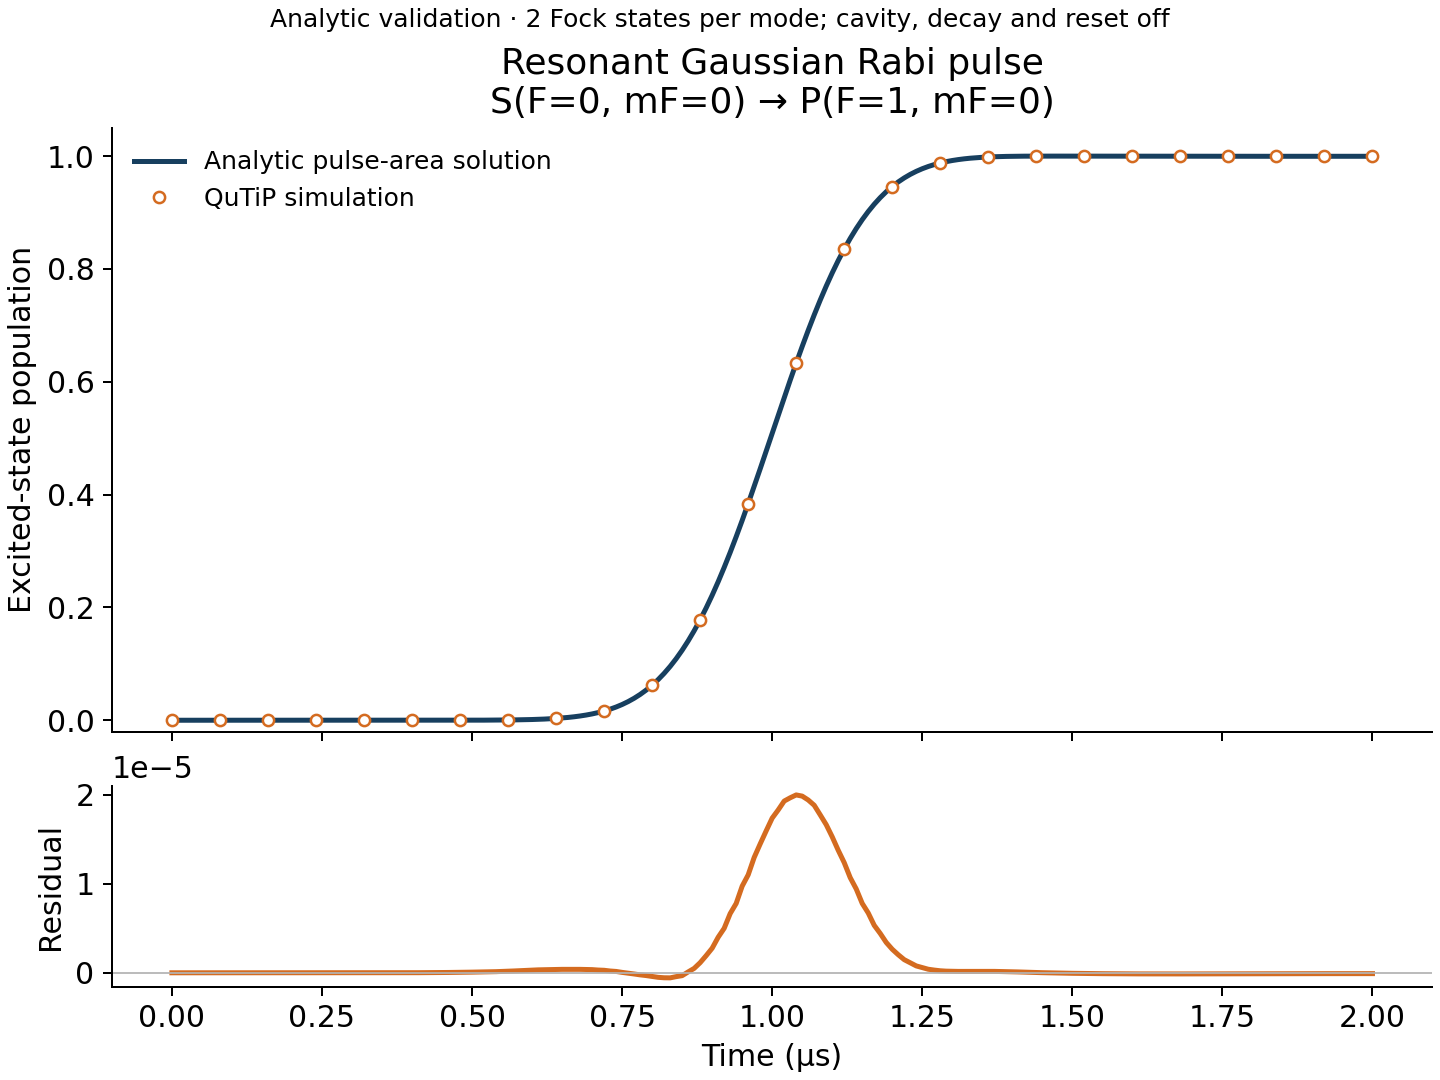
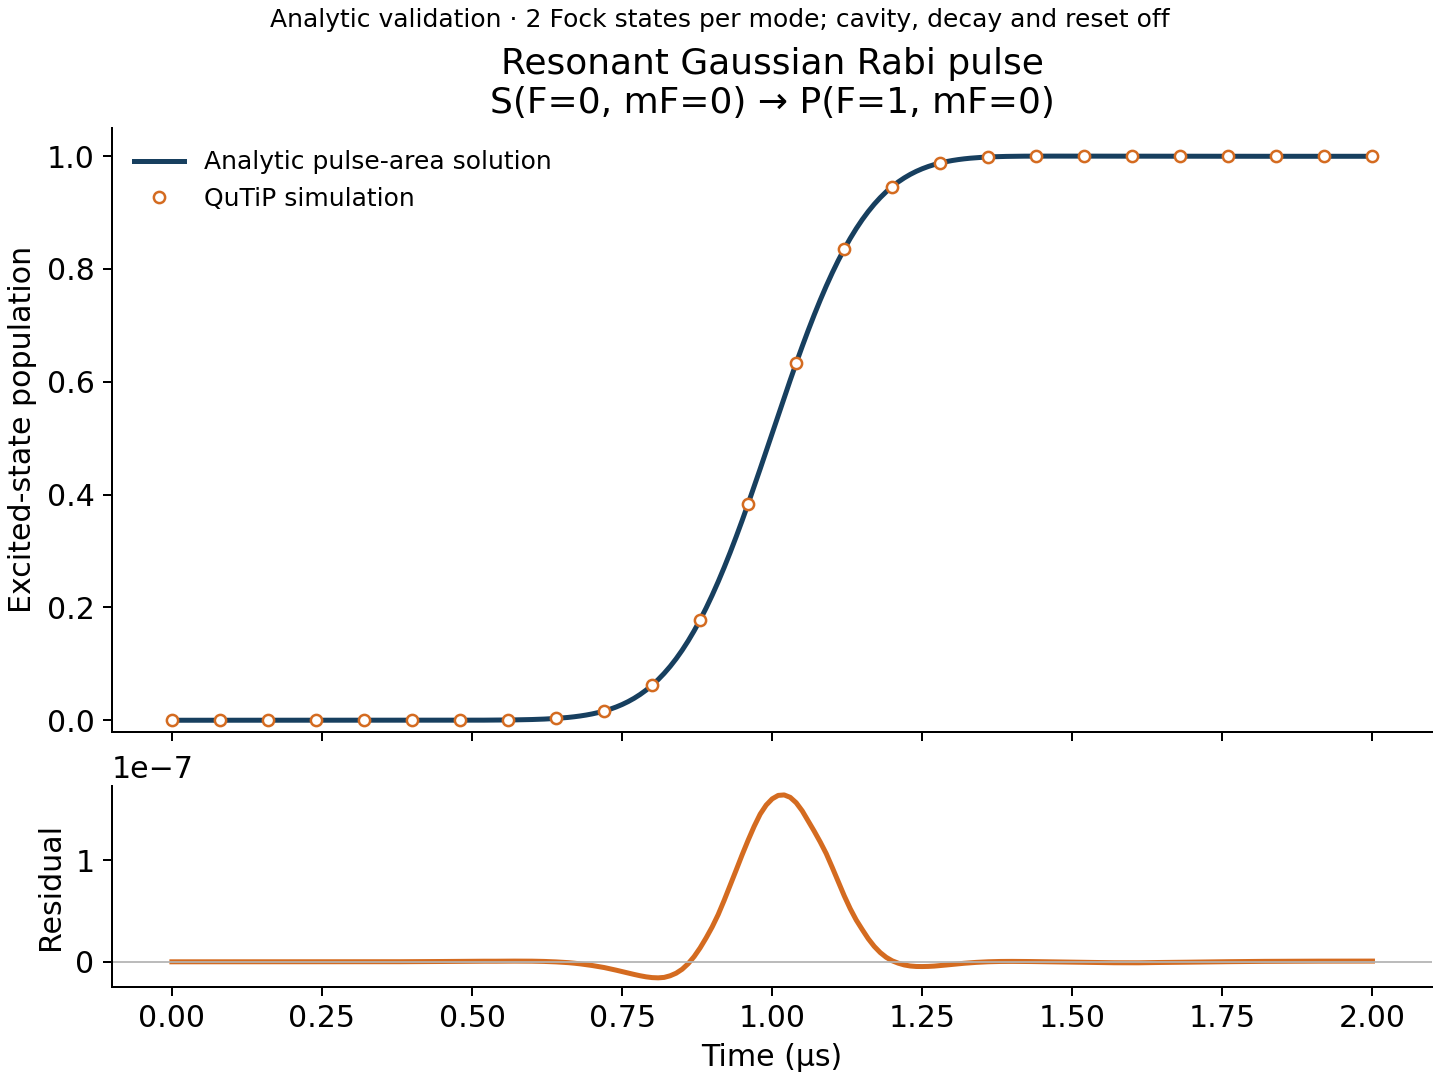
Tighten analytic Rabi integration and residual tolerance

Changed region(s): [[0.0312, 0.7333, 0.9688, 0.9167], [0.5, 0.7639, 0.5312, 0.8556], [0.0312, 0.7944, 0.0625, 0.825]]

diff --git a/src/caipe_sim/validation.py b/src/caipe_sim/validation.py
@@ -15,6 +15,7 @@ def run_rabi_validation() -> dict:
     reset coupling, and bare terms are off, isolating S(F=0,mF=0) and
     P(F=1,mF=0). The cavity truncation follows the shared application default.
     """
+    # Tight integration isolates numerical error in the analytic comparison.
     n = DEFAULT_FOCK_DIMENSION
     ground = model.hf_state_index("S", 0.0, 0.0)
     excited = model.hf_state_index("P", 1.0, 0.0)
@@ -26,7 +27,7 @@ def run_rabi_validation() -> dict:
     p_e = tensor(qeye(n), qeye(n), basis(16, excited).proj())
     result = mesolve(
         [h*0, [h, model.omega_drive]], psi0, times,
-        e_ops=[p_e], args=args, options=model.solver_options(),
+        e_ops=[p_e], args=args, options={**model.solver_options(), "atol": 1e-10, "rtol": 1e-8},
     )
     sigma, t0 = args["drive_sigma"], args["drive_t0"]
     area = args["drive_amp"]*sigma*np.sqrt(np.pi/2)*(

diff --git a/scripts/make_readme_figures.py b/scripts/make_readme_figures.py
@@ -21,7 +21,7 @@ def make_figures(output: Path) -> None:
     with plt.rc_context({"font.size": 12, "axes.spines.top": False,
                          "axes.spines.right": False, "lines.linewidth": 2}):
         data = run_rabi_validation()
-        np.testing.assert_allclose(data["simulated"], data["analytic"], atol=2e-5)
+        np.testing.assert_allclose(data["simulated"], data["analytic"], atol=2e-6, rtol=0)
         fig, axes = plt.subplots(2, 1, figsize=(8, 6), sharex=True,
                                  gridspec_kw={"height_ratios": [3, 1]}, layout="constrained")
         axes[0].plot(data["time_us"], data["analytic"], color="#173f5f", label="Analytic pulse-area solution")

diff --git a/tests/portfolio/test_yb171.py b/tests/portfolio/test_yb171.py
@@ -44,7 +44,7 @@ def test_cavity_coupling_is_hermitian():
 def test_gaussian_pi_pulse_matches_analytic_rabi_solution():
     data = run_rabi_validation()
     assert data["analytic"].max() > .1
-    np.testing.assert_allclose(data["simulated"], data["analytic"], atol=2e-5)
+    np.testing.assert_allclose(data["simulated"], data["analytic"], atol=2e-6, rtol=0)
 
 
 
